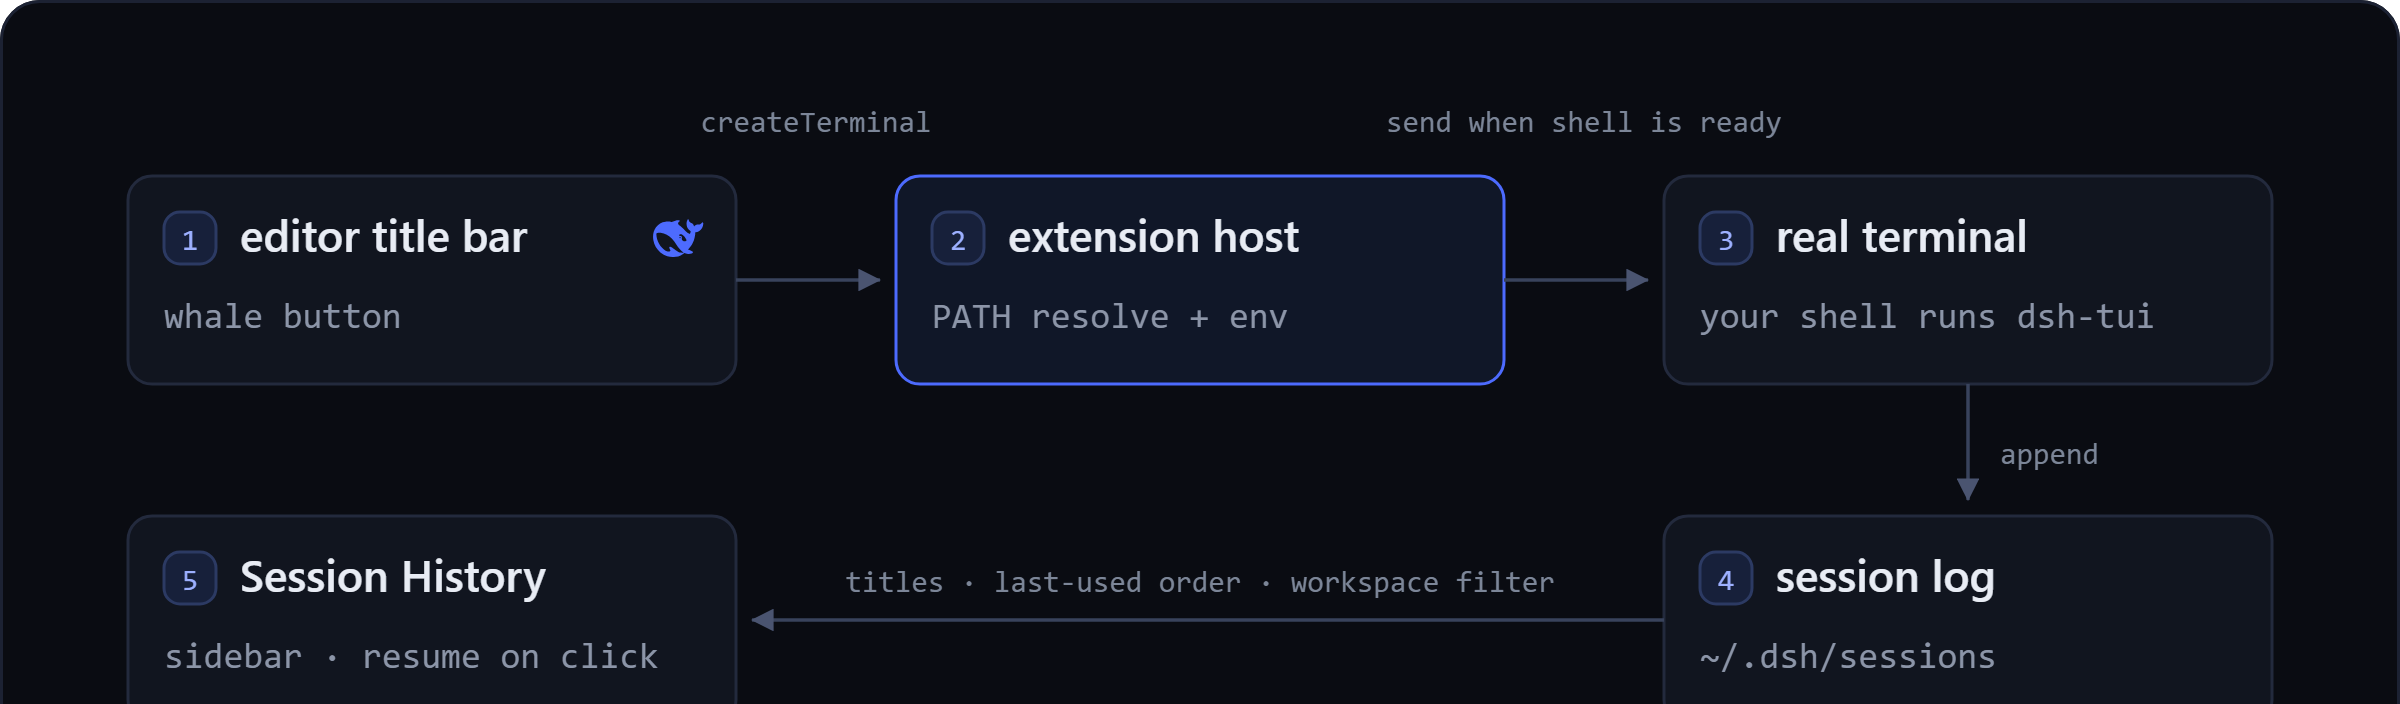
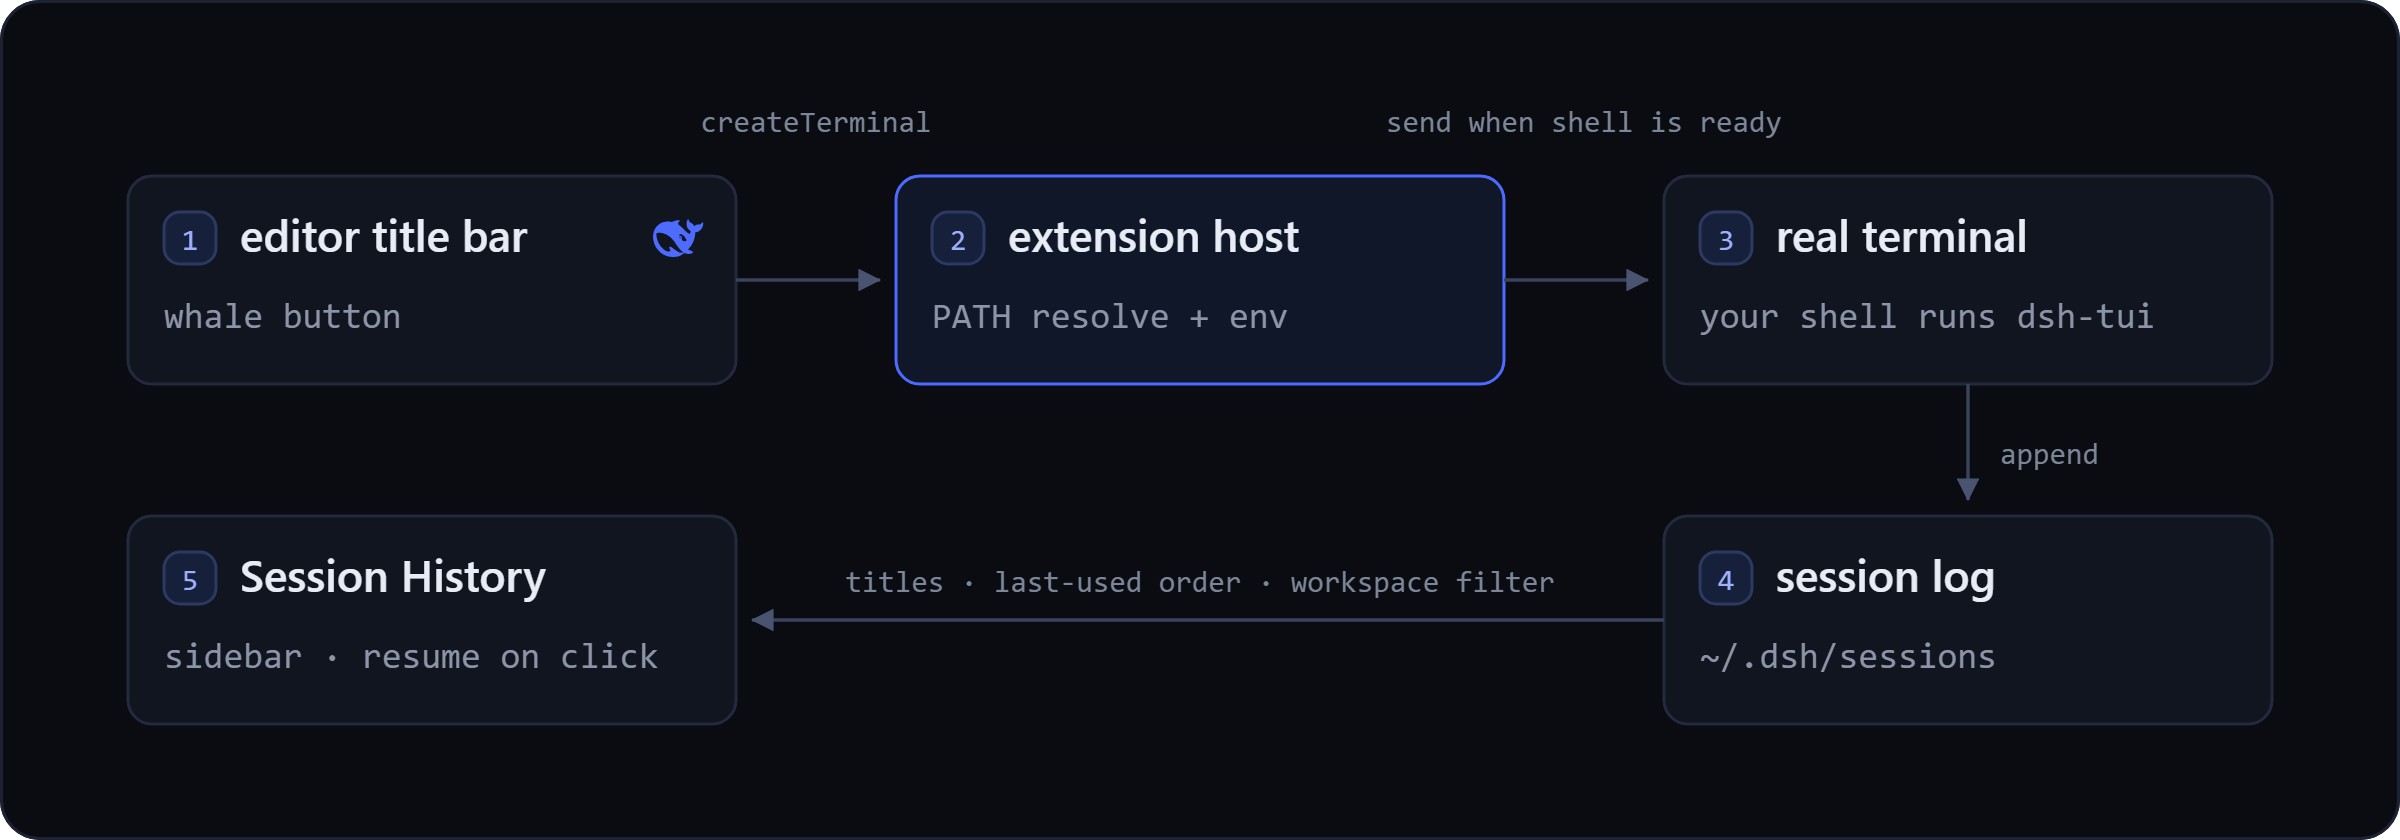
docs: fix a clipped diagram and refresh the two summaries that fell behind
Three things this branch had left behind, found by going back over it rather
than by anything failing.

**The published diagram was clipped.** `media/readme/how-it-works.png` was
rendered with `--window-size=1200,352`, a height carried over from an earlier
draft of the SVG, while the SVG is 420 tall. The whole bottom row — the Session
History and session-log boxes, their sub-labels and the board's lower edge — was
cut off, and it shipped that way in the README. Re-rendered at 1200x420 (2400x840
at 2x), which is byte-identical to the SVG rendered correctly.

The gap that allowed it: the SVG source had no rebuild instructions at all. It
now has a header comment, and `media/readme/source/README.md` records both build
recipes — the hero through `compose-hero.py`, the diagram through a one-line
Chromium invocation with the window size spelled out — together with the two
rules the captures must keep (nothing outside the terminal panes is published;
anything naming real work is pixelated, and the redaction is not to be
"restored").

**`CHANGELOG.md` / `CHANGELOG_ZH.md` understated the change.** They said five
statements were corrected; thirteen were, in two rounds, and the entry did not
mention the selection capture or the hero build fixes. Rewritten to match what
the branch actually does.

**The PR body had drifted too** — it still said three captures and 196 lines,
and did not describe the clipping fix. It is re-derived from the template rather
[…]

diff --git a/CHANGELOG.md b/CHANGELOG.md
@@ -16,8 +16,8 @@ Format follows [Keep a Changelog](https://keepachangelog.com/en/1.1.0/); version
 
 ### Changed
 
-- **The README was rebuilt around proof and re-derived from the code.** It now opens with a composed hero and real screenshots, keeps commands, settings and compatibility in tables, and carries a troubleshooting section. Every factual claim was re-checked against `src/`, `package.nls*.json` and the published upstream packages rather than carried forward, which corrected five statements: the three quoted command invocations showed bilingual titles the palette stopped rendering in 0.7.3 (`dsh-tui: Start new session`, not `dsh-tui: Start new session / 启动新会话`); the documented rebinding search term `dsh_tui` matches nothing (the real tokens are `dsh-tui` and `insertAtMention`); the sidebar was documented as empty with no workspace open, whereas the provider passes an empty list that the data layer reads as *no filter*, so every session under the DSH home is listed (the code fix is tracked separately); `@bokuweb/zstd-wasm` was called the only runtime dependency (`ws` is the second); and the version gates, the image-reload prompt, the `injectEditor` condition and the injected environment were each described more narrowly than the code behaves. The directory tree, the architecture diagram and the CI job list moved into `CONTRIBUTING.md`, and the terminal-image, session-history and IDE-channel reasoning moved into three new notes under `docs/`.
-- **README imagery lives in `media/readme/`**, with the hero's composition source (layout SVG, screenshot crop and build script) under `media/readme/source/`; that source directory is excluded from the vsix.
+- **The README was rebuilt around proof and re-derived from the code.** It now opens with a composed hero and four real captures, keeps commands, settings and compatibility in tables, and carries a troubleshooting section. Every factual claim was re-checked against `src/`, `package.nls*.json`, the unit tests and the published upstream packages instead of being carried forward, and thirteen statements did not survive it: the three quoted command invocations showed bilingual titles the palette stopped rendering in 0.7.3; the documented rebinding search term `dsh_tui` matches nothing; the sidebar was described as empty with no workspace open, while the provider passes an empty list the data layer reads as *no filter* (the code fix is tracked separately); `@bokuweb/zstd-wasm` was called the only runtime dependency; the `injectEditor` condition, the `command` resolution, the injected environment and the image-reload prompt were each described more narrowly than the code behaves; the archive and rename notes claimed a concurrency safety they do not provide; the extension-side version gates merged two different minimums into one; a combined command title was invented; and one troubleshooting row's symptom contradicted its own advice. The directory tree, the architecture diagram and the CI job list moved into `CONTRIBUTING.md`, and the terminal-image, session-history and IDE-channel reasoning moved into three new notes under `docs/`.
+- **README imagery lives in `media/readme/`**, with the hero's composition source (layout SVG, screenshot crop and build script) and the diagram's SVG under `media/readme/source/`; that directory is excluded from the vsix. The hero build script now stages its files per invocation and replaces the output atomically, so overlapping runs cannot clobber each other.
 
 ### Fixed
 

diff --git a/CHANGELOG_ZH.md b/CHANGELOG_ZH.md
@@ -14,8 +14,8 @@
 
 ### Changed
 
-- **README 按「先证据、后解释」重建，并逐条回到代码重新推导。** 现在它以合成 hero 与真实截图开场，把命令、设置与兼容性收进表格，并新增故障排查一节。所有事实性断言都重新对照 `src/`、`package.nls*.json` 与上游已发布包核验，而不是照抄旧文，因此纠正了五处陈述：三处命令调用示例引用的是 0.7.3 起命令面板就不再渲染的双语标题（实际为 `dsh-tui: Start new session`，而非 `dsh-tui: Start new session / 启动新会话`）；文档给出的重绑搜索词 `dsh_tui` 什么都匹配不到（真实 token 是 `dsh-tui` 与 `insertAtMention`）；侧边栏被写成「未打开工作区时为空列表」，而 provider 传的空数组会被数据层读作**不过滤**，于是列出 DSH home 下的全部会话（代码修复另行跟踪）；`@bokuweb/zstd-wasm` 被称作唯一运行时依赖（第二个是 `ws`）；版本门槛、图像重载提示、`injectEditor` 条件与注入的环境变量，每一处都写得比代码实际行为更窄。目录树、架构图与 CI job 清单一并迁入 `CONTRIBUTING.md`，终端图片、会话历史与 IDE 通道的推理过程迁入 `docs/` 下三篇新文档。
-- **README 图片统一放在 `media/readme/`**，hero 的合成源（布局 SVG、截图裁切与构建脚本）放在 `media/readme/source/`；该 source 目录不进 vsix。
+- **README 按「先证据、后解释」重建，并逐条回到代码重新推导。** 现在它以合成 hero 与四张真实截图开场，把命令、设置与兼容性收进表格，并新增故障排查一节。所有事实性断言都重新对照 `src/`、`package.nls*.json`、单测与上游已发布包核验，而不是照抄旧文，其中**十三处**没能通过核验：三处命令调用示例引用的是 0.7.3 起命令面板就不再渲染的双语标题；文档给出的重绑搜索词 `dsh_tui` 什么都匹配不到；侧边栏被写成「未打开工作区时为空列表」，而 provider 传的空数组会被数据层读作**不过滤**（代码修复另行跟踪）；`@bokuweb/zstd-wasm` 被称作唯一运行时依赖；`injectEditor` 条件、`command` 的解析口径、注入的环境变量与图像重载提示，每一处都写得比代码实际行为更窄；归档与重命名的说明声称了它们并不具备的并发安全性；扩展侧的两个版本门槛被错误合并成一个；出现了一个并不存在的合并命令标题；还有一行故障排查的症状与它自己的建议互相矛盾。目录树、架构图与 CI job 清单一并迁入 `CONTRIBUTING.md`，终端图片、会话历史与 IDE 通道的推理过程迁入 `docs/` 下三篇新文档。
+- **README 图片统一放在 `media/readme/`**，hero 的合成源（布局 SVG、截图裁切与构建脚本）与示意图的 SVG 放在 `media/readme/source/`；该目录不进 vsix。hero 构建脚本现在每次调用使用独立暂存文件、并对输出做原子替换，并发运行不会互相覆盖。
 
 ### Fixed
 

diff --git a/media/readme/source/README.md b/media/readme/source/README.md
@@ -1,0 +1,51 @@
+# README asset sources
+
+Editable sources for the images under `media/readme/`. Nothing here is packaged
+into the vsix (`.vscodeignore` excludes this directory); nothing here is
+generated art either — every raster layer is a crop of a real screenshot.
+
+## `hero.png`
+
+Composed: `hero-layout.svg` owns the typography, framing and colour, and
+`hero-shot.png` supplies the terminal crop.
+
+```sh
+python media/readme/source/compose-hero.py          # writes media/readme/hero.png
+```
+
+The script needs Python 3.9+, Pillow, and any Chromium-based browser (set
+`CHROME_PATH` if it is somewhere unusual). To change what the hero shows,
+re-crop `hero-shot.png`; the layout reserves the window it is pasted into.
+
+## `how-it-works.png`
+
+A raster render of `how-it-works.svg`. It is a PNG rather than an SVG because
+`vsce package` refuses to package a README that references a local `.svg`
+("SVGs are restricted in README.md; please use other file image formats"), and
+CI runs `npm run package`.
+
+After editing the SVG:
+
+```sh
+chrome --headless --disable-gpu --hide-scrollbars \
+  --force-device-scale-factor=2 --default-background-color=00000000 \
+  --screenshot=media/readme/how-it-works.png --window-size=1200,420 \
+  "file://$PWD/media/readme/source/how-it-works.svg"
+```
+
+Any Chromium-based browser works. The `--window-size` must match the SVG's
+`width`/`height`, and the device-scale factor of 2 is what keeps the labels
+sharp when GitHub scales the image down to its ~900px content column.
+
+## Captures that are not built here
+
+`multi-session.png`, `session-history.png` and `selection-context.png` are
+direct crops of captures taken on a real desktop; they have no build step. Two
+rules apply to all of them, and both are load-bearing:
+
+- **Nothing outside the terminal panes is ever published.** The captures had
+  private editors open; only the terminal is cropped out of them.
+- **Anything that names real work is pixelated** — the local workspace path in
+  the terminal footer, the project name on the status lines, and the session
+  titles in the sidebar. The redaction is deliberate and visible; do not
+  "restore" it.
